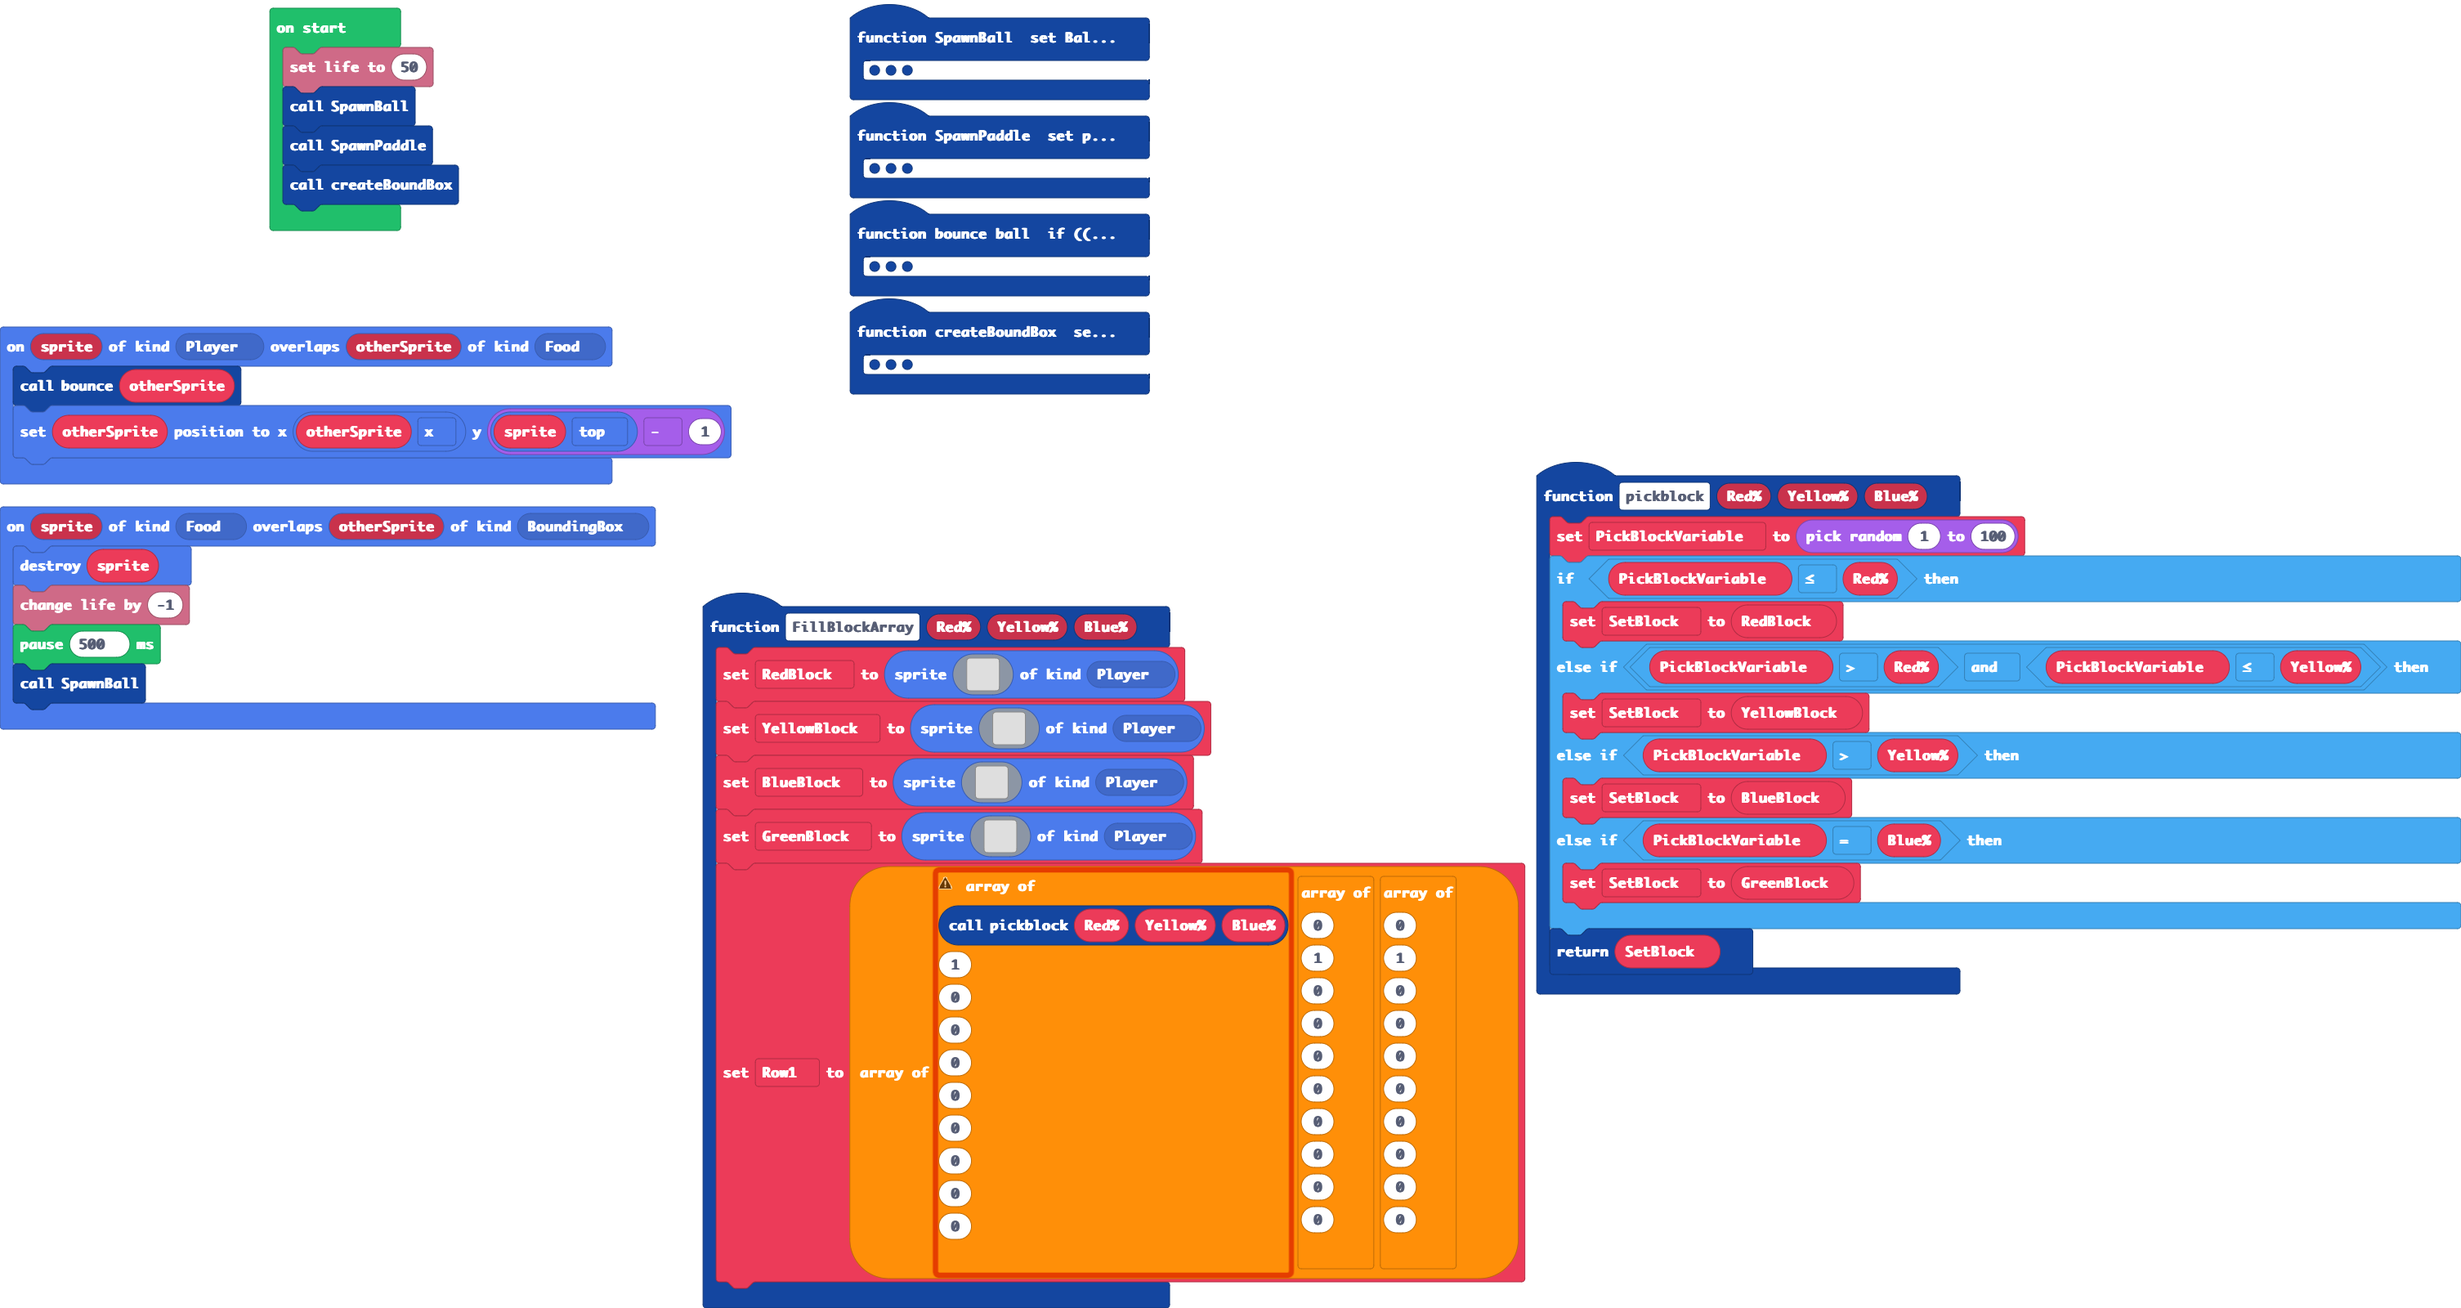
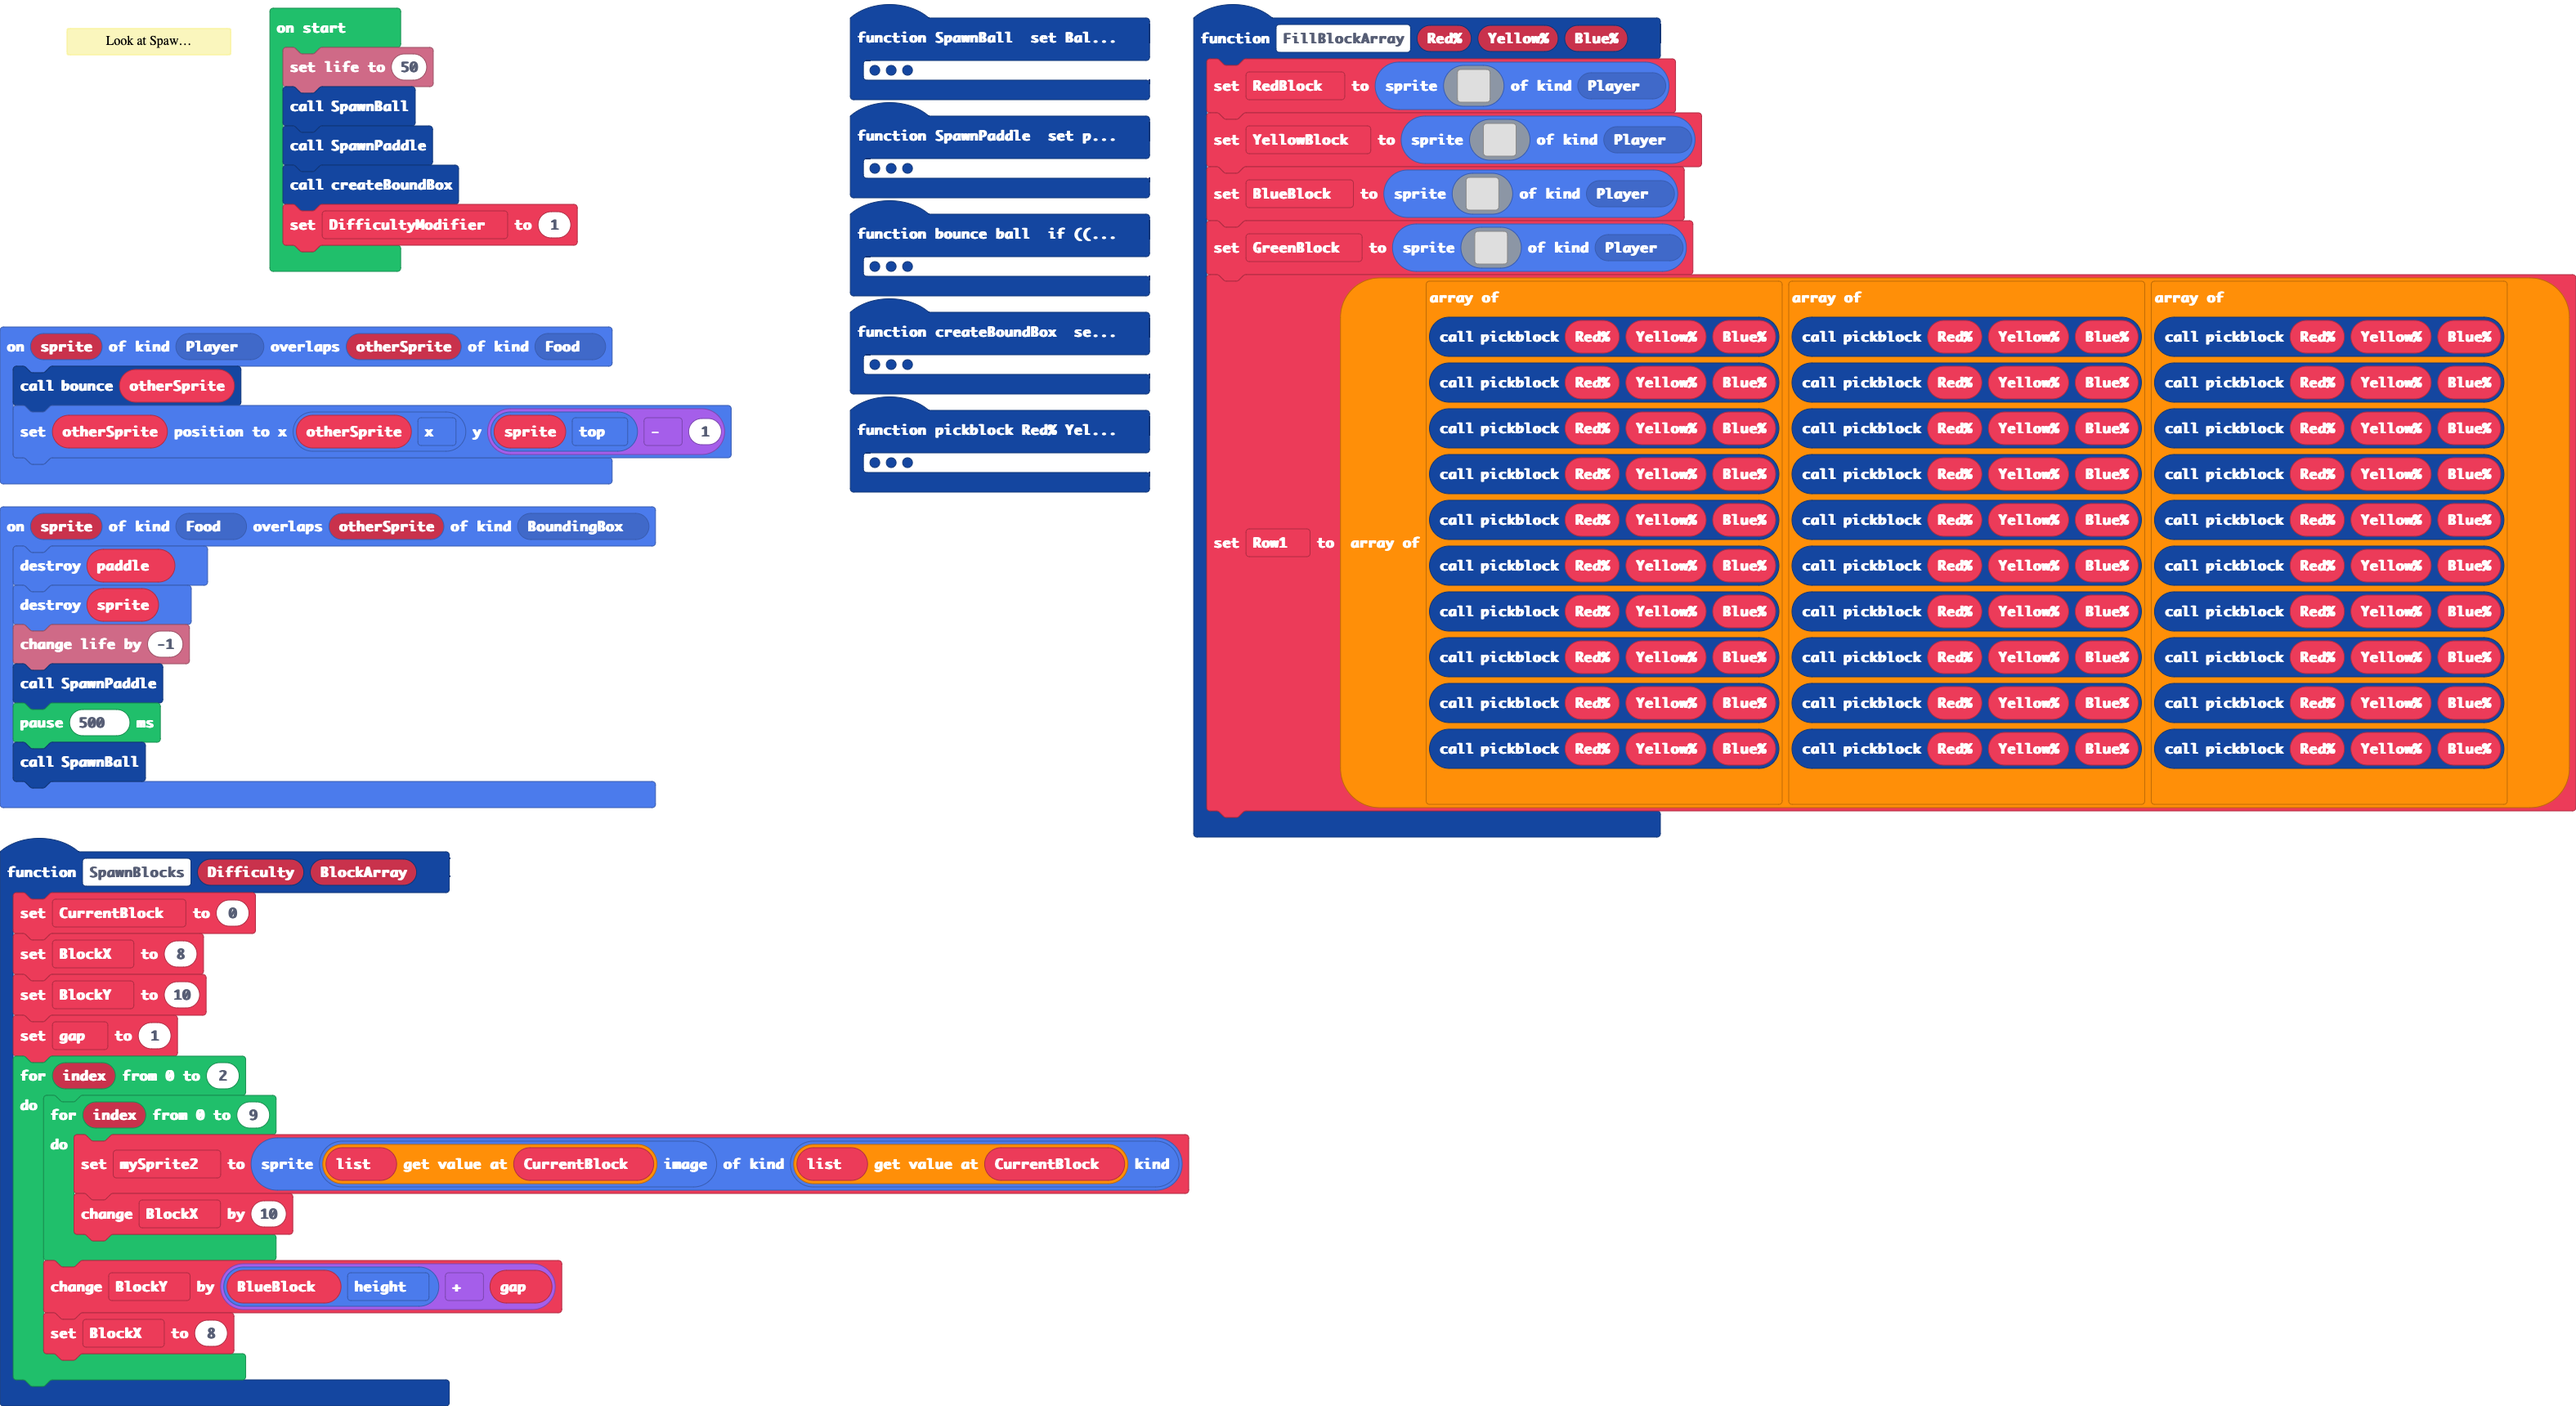
Almost fixed block spawner

diff --git a/main.ts b/main.ts
@@ -1,6 +1,9 @@
 namespace SpriteKind {
     export const BoundingBox = SpriteKind.create()
 }
+/**
+ * Look at SpawnRowOfBlocks function in Araknoid clone
+ */
 function createBoundBox () {
     mySprite = sprites.create(img`
         ffffffffffffffffffffffffffffffffffffffffffffffffffffffffffffffffffffffffffffffffffffffffffffffffffffffffffffffffffffffffffffffffffffffffffffffffffffffffffffffffffffffffffffffffffff
@@ -9,6 +12,21 @@ function createBoundBox () {
         ffffffffffffffffffffffffffffffffffffffffffffffffffffffffffffffffffffffffffffffffffffffffffffffffffffffffffffffffffffffffffffffffffffffffffffffffffffffffffffffffffffffffffffffffffff
         `, SpriteKind.BoundingBox)
     mySprite.setPosition(90, 116)
+}
+function SpawnBlocks (Difficulty: number, BlockArray: any[]) {
+    CurrentBlock = 0
+    BlockX = 8
+    BlockY = 10
+    gap = 1
+    for (let index = 0; index <= 2; index++) {
+        for (let index = 0; index <= 9; index++) {
+            let list: Sprite[] = []
+            mySprite2 = sprites.create(list[CurrentBlock].image, list[CurrentBlock].kind())
+            BlockX += 10
+        }
+        BlockY += BlueBlock.height + gap
+        BlockX = 8
+    }
 }
 function bounce (ball: Sprite) {
     if (Ball.vx < 0) {
@@ -59,8 +77,10 @@ function pickblock (Red: number, Yellow: number, Blue: number) {
     return SetBlock
 }
 sprites.onOverlap(SpriteKind.Food, SpriteKind.BoundingBox, function (sprite, otherSprite) {
+    sprites.destroy(paddle)
     sprites.destroy(sprite)
     info.changeLifeBy(-1)
+    SpawnPaddle()
     pause(500)
     SpawnBall()
 })
@@ -91,37 +111,37 @@ function FillBlockArray (Red: number, Yellow: number, Blue: number) {
         `, SpriteKind.Player)
     Row1 = [[
     pickblock(Red, Yellow, Blue),
-    1,
-    0,
-    0,
-    0,
-    0,
-    0,
-    0,
-    0,
-    0
+    pickblock(Red, Yellow, Blue),
+    pickblock(Red, Yellow, Blue),
+    pickblock(Red, Yellow, Blue),
+    pickblock(Red, Yellow, Blue),
+    pickblock(Red, Yellow, Blue),
+    pickblock(Red, Yellow, Blue),
+    pickblock(Red, Yellow, Blue),
+    pickblock(Red, Yellow, Blue),
+    pickblock(Red, Yellow, Blue)
     ], [
-    0,
-    1,
-    0,
-    0,
-    0,
-    0,
-    0,
-    0,
-    0,
-    0
+    pickblock(Red, Yellow, Blue),
+    pickblock(Red, Yellow, Blue),
+    pickblock(Red, Yellow, Blue),
+    pickblock(Red, Yellow, Blue),
+    pickblock(Red, Yellow, Blue),
+    pickblock(Red, Yellow, Blue),
+    pickblock(Red, Yellow, Blue),
+    pickblock(Red, Yellow, Blue),
+    pickblock(Red, Yellow, Blue),
+    pickblock(Red, Yellow, Blue)
     ], [
-    0,
-    1,
-    0,
-    0,
-    0,
-    0,
-    0,
-    0,
-    0,
-    0
+    pickblock(Red, Yellow, Blue),
+    pickblock(Red, Yellow, Blue),
+    pickblock(Red, Yellow, Blue),
+    pickblock(Red, Yellow, Blue),
+    pickblock(Red, Yellow, Blue),
+    pickblock(Red, Yellow, Blue),
+    pickblock(Red, Yellow, Blue),
+    pickblock(Red, Yellow, Blue),
+    pickblock(Red, Yellow, Blue),
+    pickblock(Red, Yellow, Blue)
     ]]
 }
 sprites.onOverlap(SpriteKind.Player, SpriteKind.Food, function (sprite, otherSprite) {
@@ -130,7 +150,6 @@ sprites.onOverlap(SpriteKind.Player, SpriteKind.Food, function (sprite, otherSpr
 })
 let Row1: Sprite[][] = []
 let GreenBlock: Sprite = null
-let BlueBlock: Sprite = null
 let YellowBlock: Sprite = null
 let RedBlock: Sprite = null
 let SetBlock: Sprite = null
@@ -140,8 +159,15 @@ let paddle: Sprite = null
 let BallYSPeed = 0
 let ballXSpeed = 0
 let Ball: Sprite = null
+let BlueBlock: Sprite = null
+let mySprite2: Sprite = null
+let gap = 0
+let BlockY = 0
+let BlockX = 0
+let CurrentBlock = 0
 let mySprite: Sprite = null
 info.setLife(50)
 SpawnBall()
 SpawnPaddle()
 createBoundBox()
+let DifficultyModifier = 1
